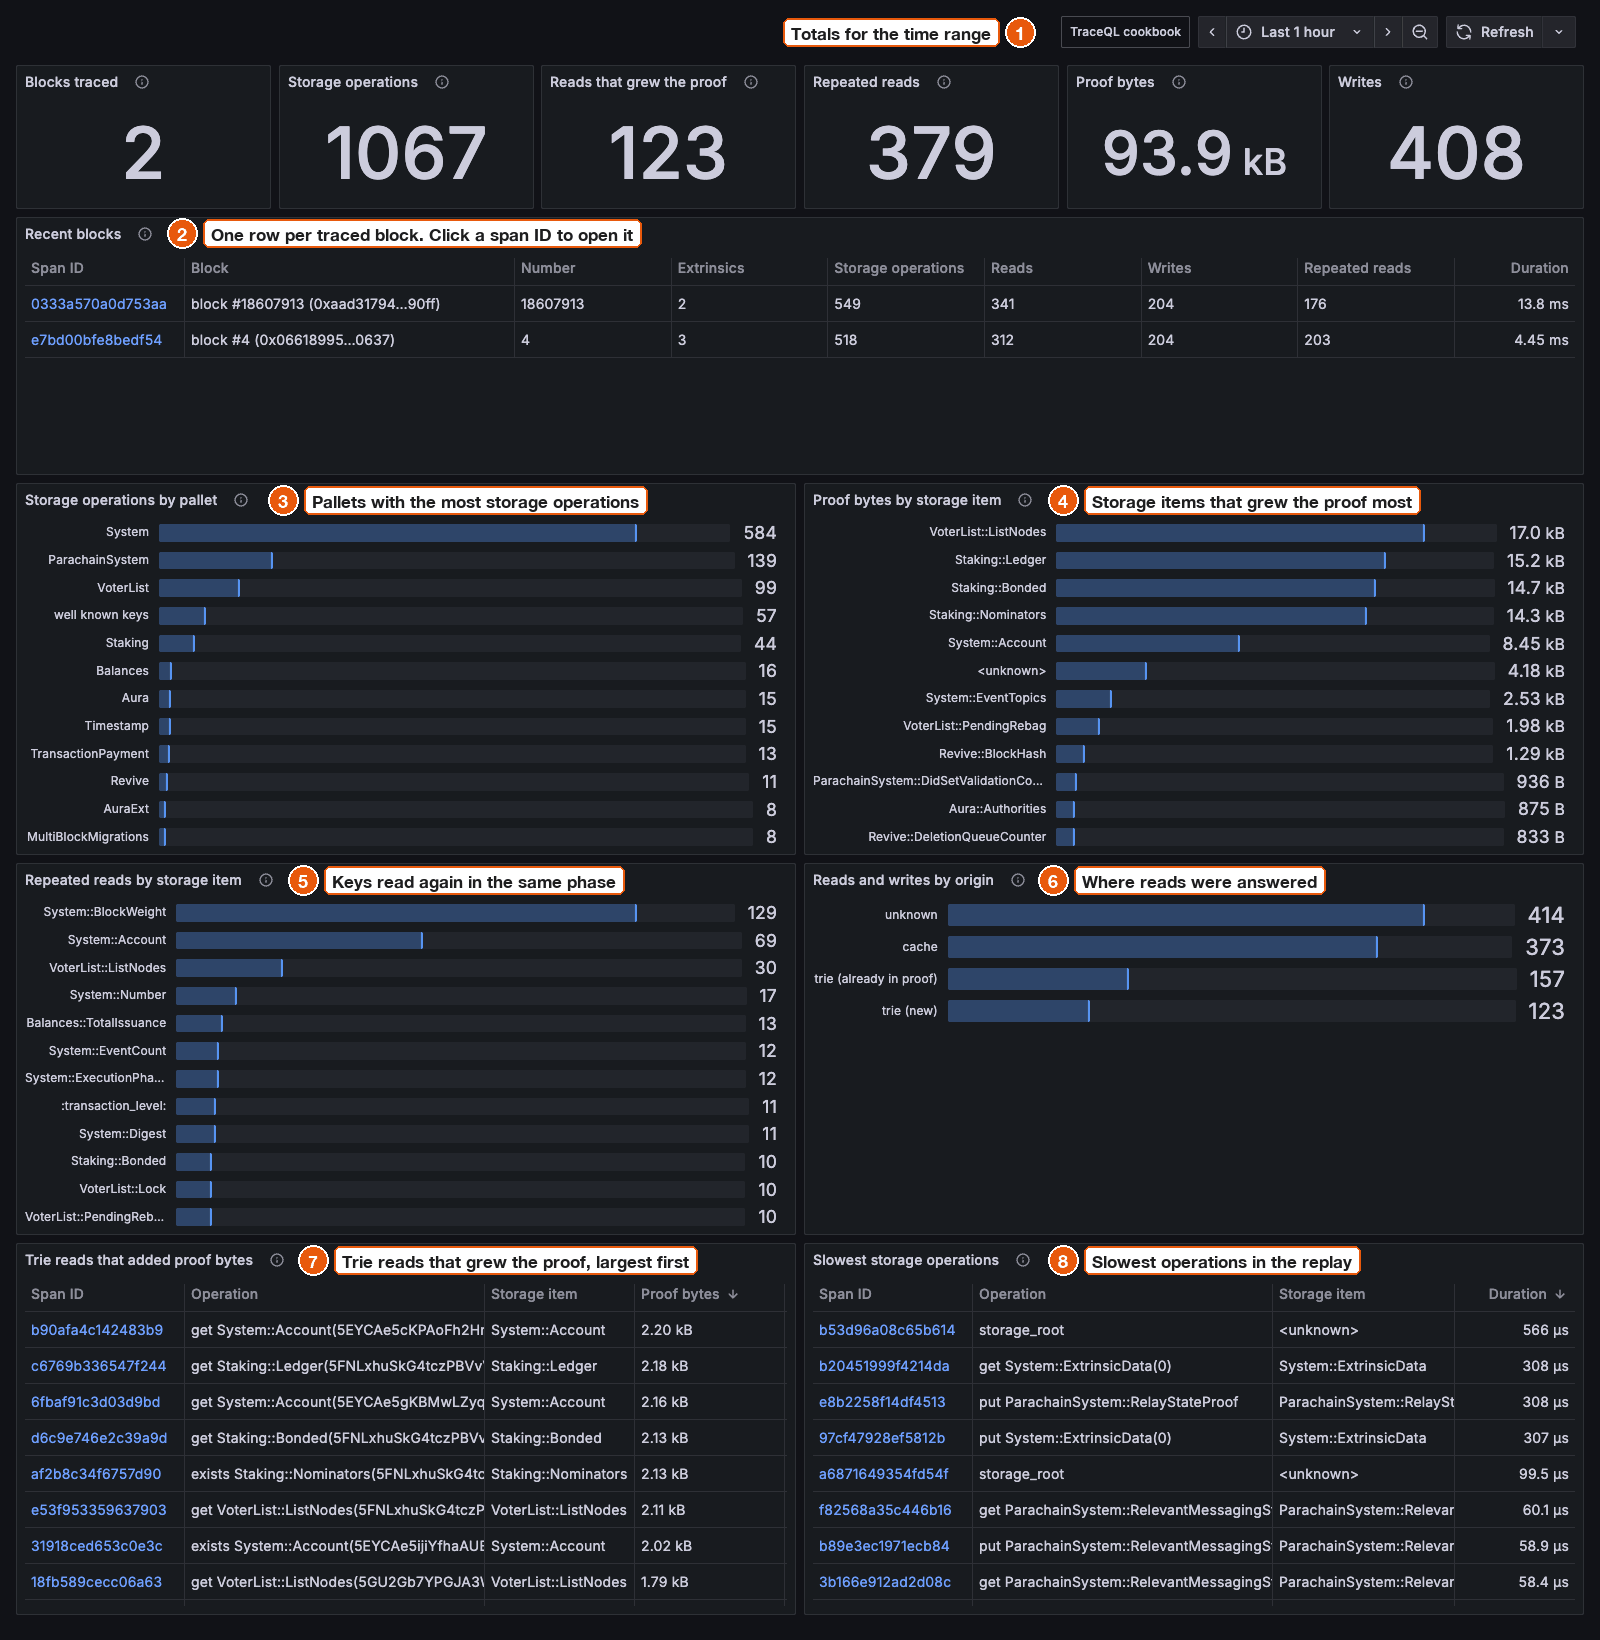
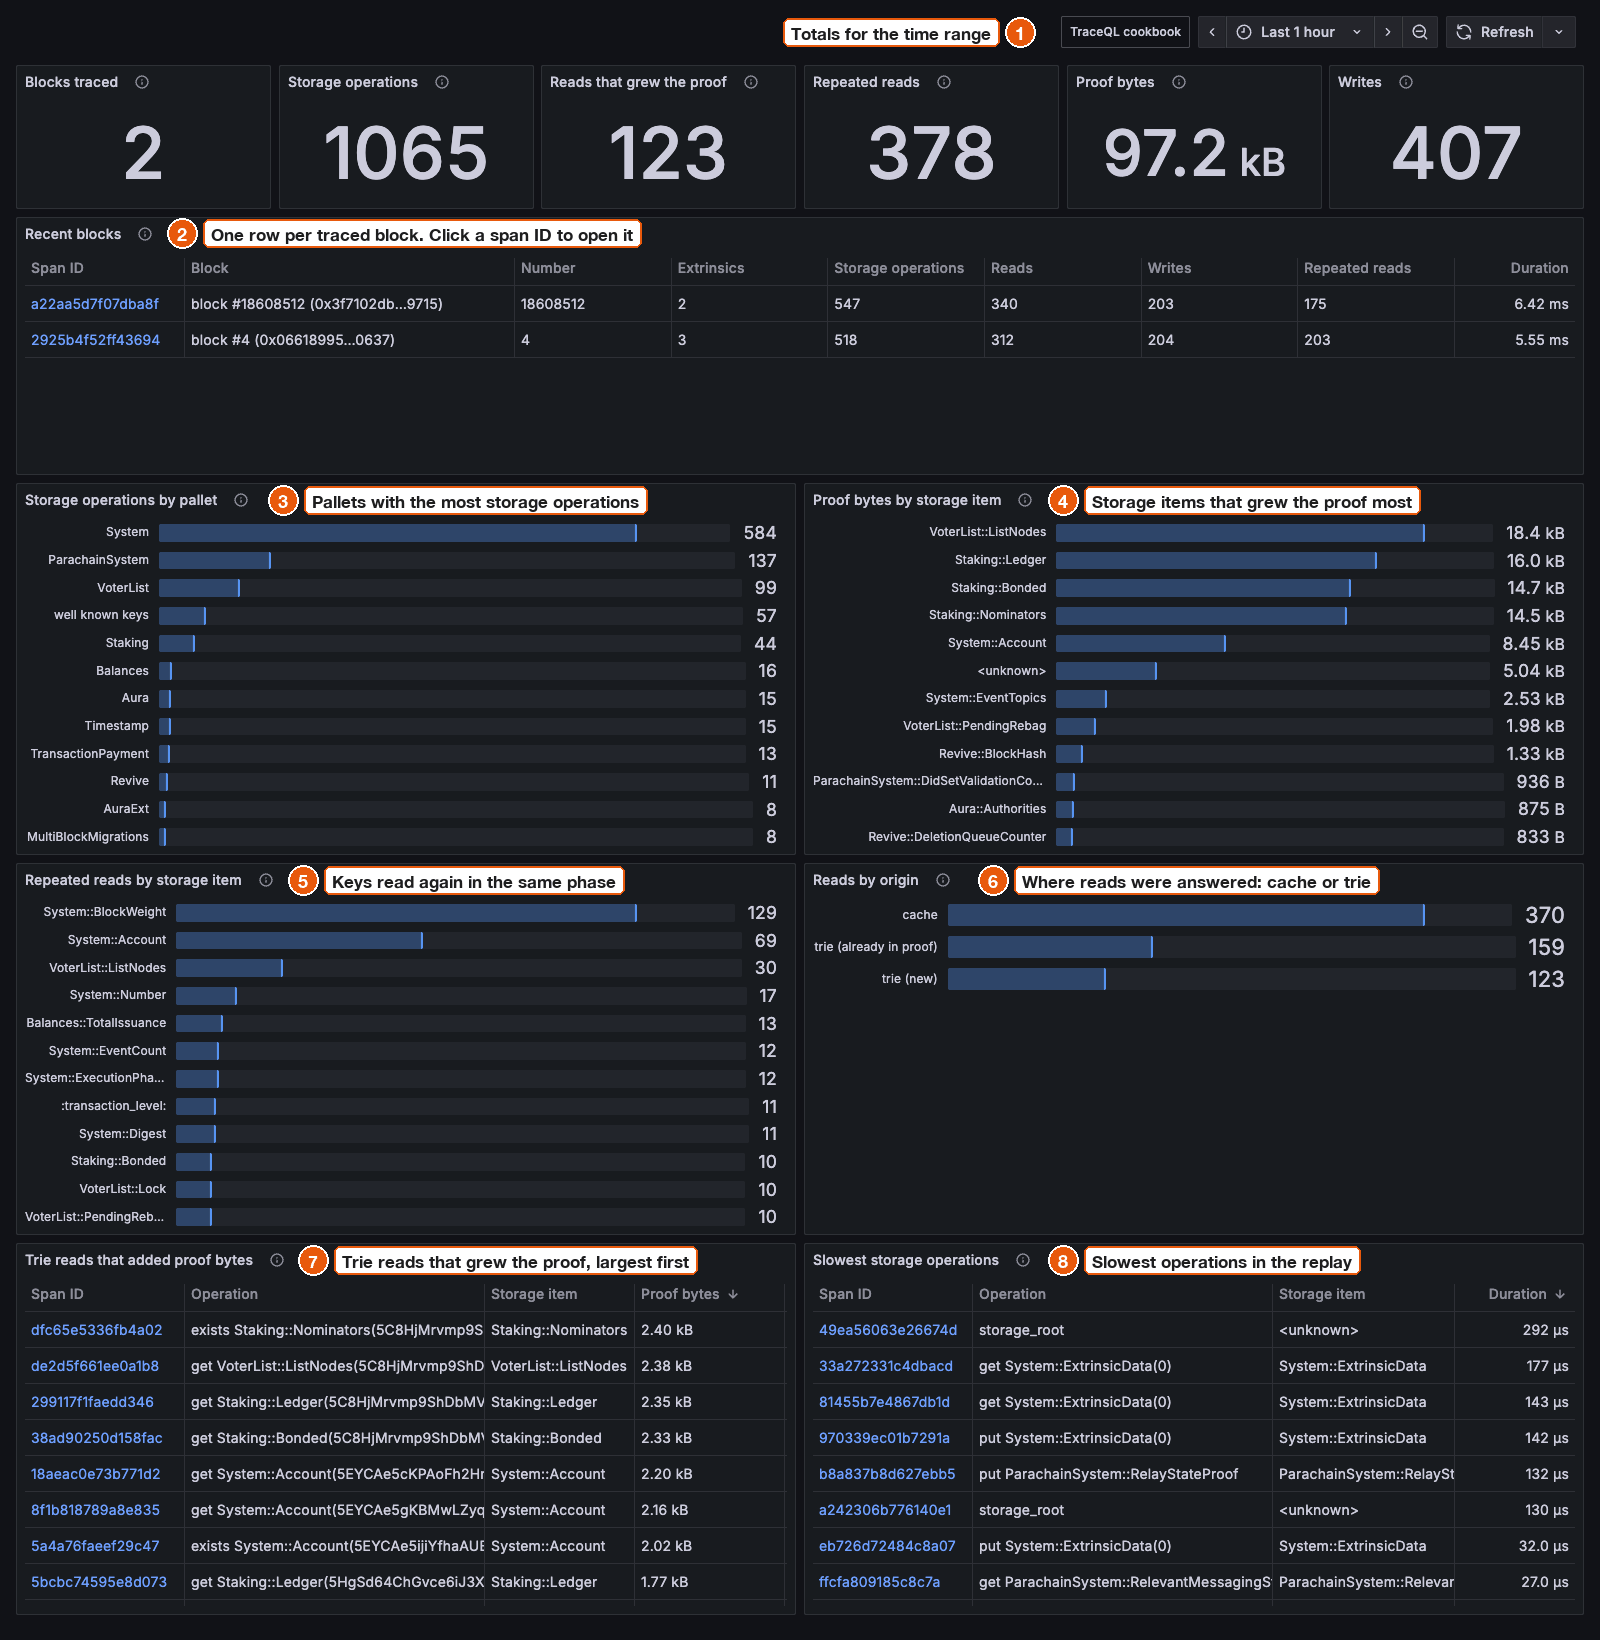
Dashboard: count reads only in the origin panel

diff --git a/docs/guides/send-traces-to-grafana.md b/docs/guides/send-traces-to-grafana.md
@@ -63,7 +63,7 @@ It shows every block you traced in the last hour.
 3. The [pallets](../reference/glossary.md#pallet) whose keys were read or written most.
 4. The storage items that added the most proof bytes. `<unknown>` holds operations without a storage item, such as `storage_root`.
 5. Keys read again in the same [phase](../concepts/phases.md). See [Find repeated reads](find-repeated-reads.md).
-6. Where operations were answered: [cache or trie](../concepts/cache-or-trie.md). Writes show as `unknown`.
+6. Where reads (`get`, `exists`, `hash`) were answered: [cache or trie](../concepts/cache-or-trie.md). Writes have no origin, so they are left out. A read whose origin was not recorded shows as `unknown`.
 7. Every read that went to the trie and added proof bytes, largest first.
 8. Storage operations that took more than 20 µs, slowest first. These times come from the replay on your machine, not from a node. See [Timings](../concepts/timings.md).
 
